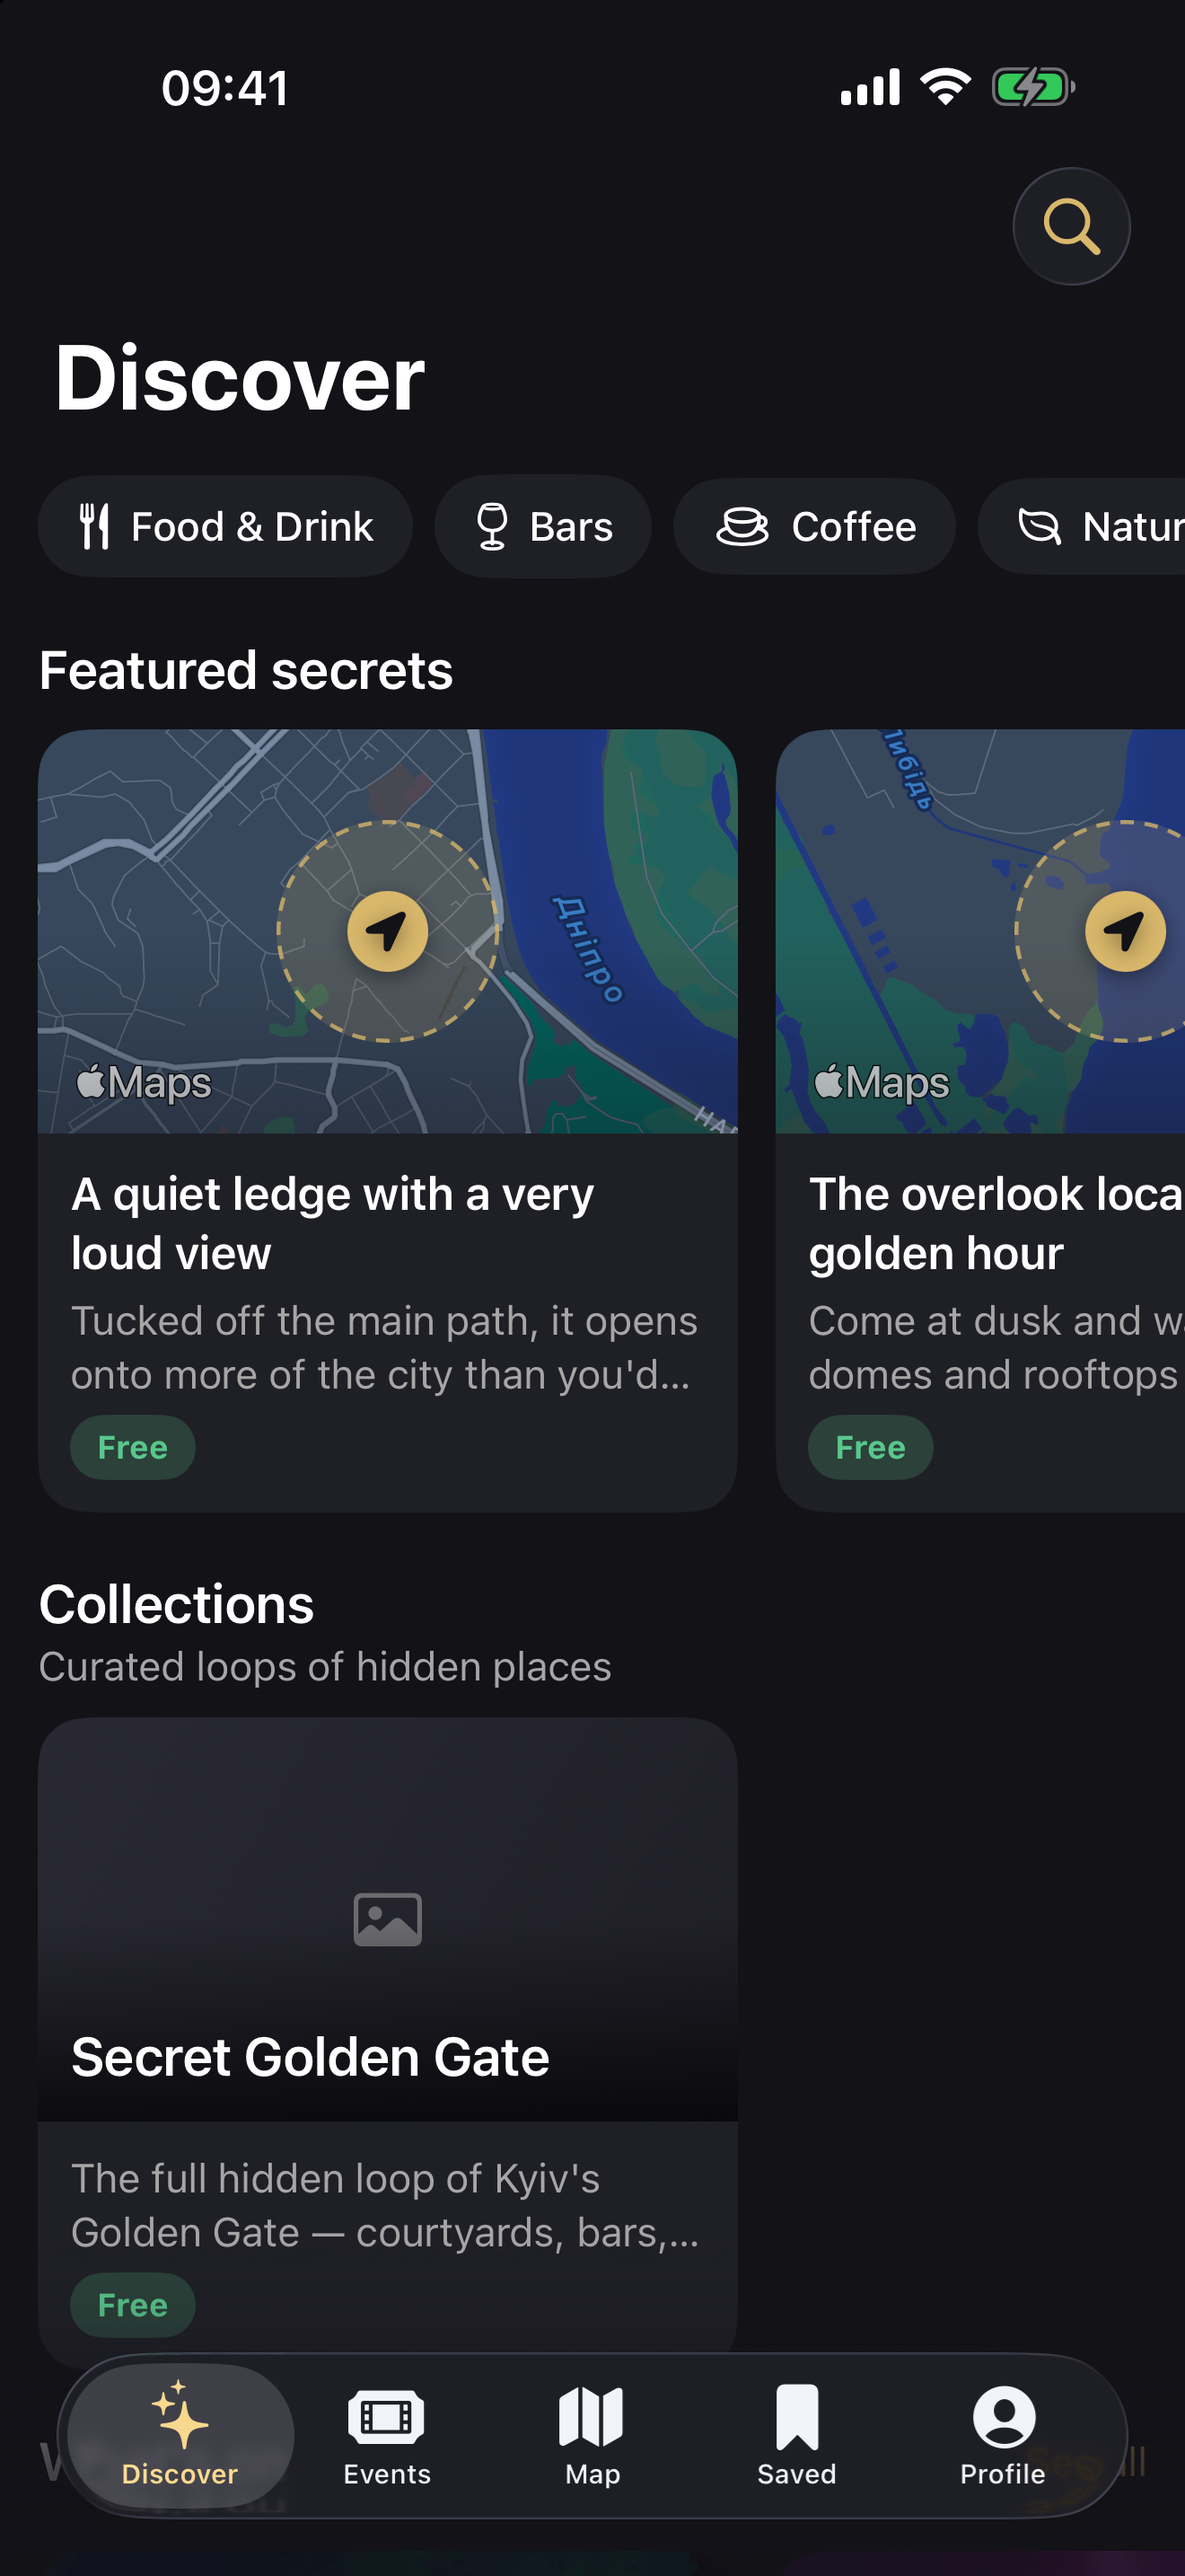
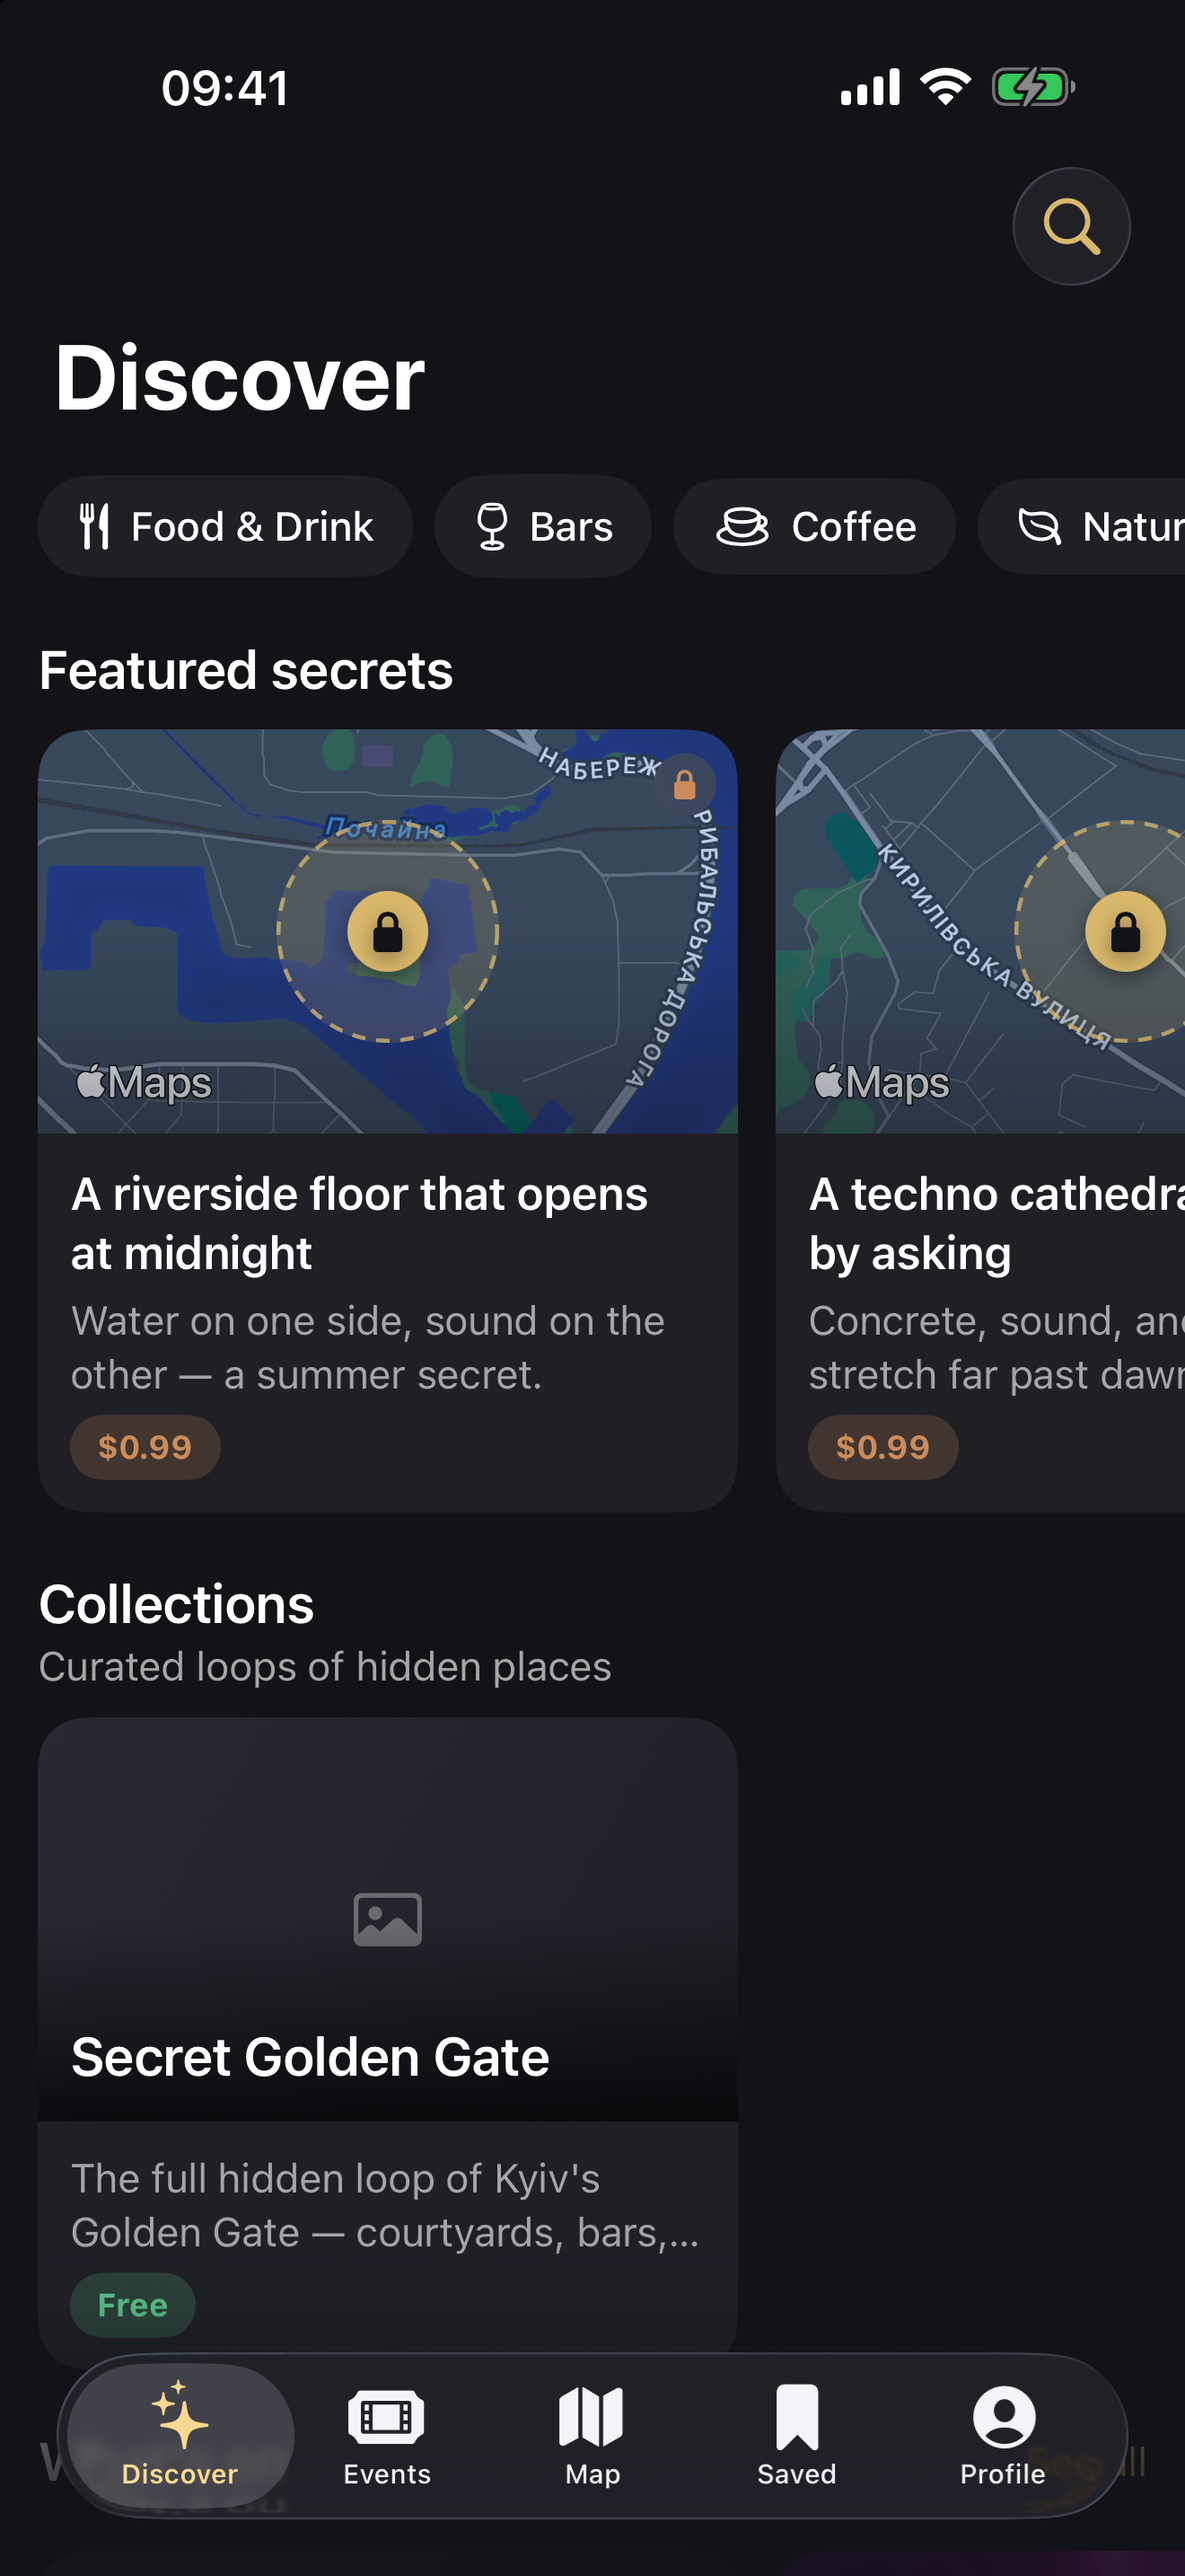
App Store listing: screenshots, EN/UK description; build 2 on the OVH backend
- appstore/compose.py turns raw 6.9" simulator captures into captioned App Store
  screenshots; appstore/metadata.json holds name, subtitle, keywords,
  description and URLs in en-US and uk
- backend/tools/appstore/upload_listing.ts pushes listing + screenshots via the
  App Store Connect API (version set to 1.0.0 to match the binary)
- Route detail shows a map of the area its stops span instead of an empty
  placeholder; dark label on the gold Unlock crawl button for contrast
- CURRENT_PROJECT_VERSION 2 (uploaded to TestFlight)

Changed region(s): [[0.0311, 0.2793, 0.6212, 0.5896], [0.6523, 0.2793, 1.0, 0.5896]]

diff --git a/backend/tools/appstore/upload_listing.ts b/backend/tools/appstore/upload_listing.ts
@@ -1,0 +1,76 @@
+// Pushes the App Store listing (appstore/metadata.json + appstore/<locale>/*.png) to the
+// version that is in "Prepare for Submission". Idempotent: updates what exists, creates
+// what's missing, and replaces the 6.9" screenshot set.
+// Run: deno run --allow-read --allow-env --allow-net upload_listing.ts
+import { api } from "./asc.ts";
+import { crypto as stdCrypto } from "jsr:@std/crypto@1";
+
+const APP = "6822694406";
+const VERSION = "1.0.0"; // must match CFBundleShortVersionString (MARKETING_VERSION)
+const root = new URL("../../../appstore/", import.meta.url);
+const meta = JSON.parse(await Deno.readTextFile(new URL("metadata.json", root)));
+
+// --- App info: categories + per-locale name/subtitle/privacy URL
+const info = (await api("GET", `/v1/apps/${APP}/appInfos`)).data.find((i: any) => i.attributes.state !== "READY_FOR_DISTRIBUTION") ??
+  (await api("GET", `/v1/apps/${APP}/appInfos`)).data[0];
+await api("PATCH", `/v1/appInfos/${info.id}`, { data: { type: "appInfos", id: info.id, relationships: {
+  primaryCategory: { data: { type: "appCategories", id: meta.app.primaryCategory } },
+  secondaryCategory: { data: { type: "appCategories", id: meta.app.secondaryCategory } } } } });
+const infoLocs = (await api("GET", `/v1/appInfos/${info.id}/appInfoLocalizations`)).data;
+for (const [locale, l] of Object.entries<any>(meta.localizations)) {
+  const attrs = { name: l.name, subtitle: l.subtitle, privacyPolicyUrl: meta.app.privacyPolicyUrl };
+  const cur = infoLocs.find((x: any) => x.attributes.locale === locale);
+  if (cur) await api("PATCH", `/v1/appInfoLocalizations/${cur.id}`, { data: { type: "appInfoLocalizations", id: cur.id, attributes: attrs } });
+  else await api("POST", "/v1/appInfoLocalizations", { data: { type: "appInfoLocalizations", attributes: { locale, ...attrs },
+    relationships: { appInfo: { data: { type: "appInfos", id: info.id } } } } });
+  console.log(`app info ${locale}: ok`);
+}
+
+// --- Version: number, copyright, per-locale listing text
+const version = (await api("GET", `/v1/apps/${APP}/appStoreVersions?filter[platform]=IOS&filter[appStoreState]=PREPARE_FOR_SUBMISSION`)).data[0];
+if (!version) throw new Error("no iOS version in Prepare for Submission");
+await api("PATCH", `/v1/appStoreVersions/${version.id}`, { data: { type: "appStoreVersions", id: version.id,
+  attributes: { versionString: VERSION, copyright: meta.app.copyright } } });
+console.log(`version ${version.attributes.versionString} -> ${VERSION}`);
+const verLocs = (await api("GET", `/v1/appStoreVersions/${version.id}/appStoreVersionLocalizations`)).data;
+const locIds: Record<string, string> = {};
+for (const [locale, l] of Object.entries<any>(meta.localizations)) {
+  const attrs = { description: l.description, keywords: l.keywords, promotionalText: l.promotionalText,
+    supportUrl: meta.app.supportUrl, marketingUrl: meta.app.marketingUrl };
+  const cur = verLocs.find((x: any) => x.attributes.locale === locale);
+  locIds[locale] = cur
+    ? (await api("PATCH", `/v1/appStoreVersionLocalizations/${cur.id}`, { data: { type: "appStoreVersionLocalizations", id: cur.id, attributes: attrs } })).data.id
+    : (await api("POST", "/v1/appStoreVersionLocalizations", { data: { type: "appStoreVersionLocalizations", attributes: { locale, ...attrs },
+        relationships: { appStoreVersion: { data: { type: "appStoreVersions", id: version.id } } } } })).data.id;
+  console.log(`listing ${locale}: ok`);
+}
+
+// --- Screenshots (6.9" iPhone set). Locales without their own folder fall back to the primary set in App Store Connect.
+const md5 = async (b: Uint8Array) => Array.from(new Uint8Array(await stdCrypto.subtle.digest("MD5", b))).map((x) => x.toString(16).padStart(2, "0")).join("");
+for (const locale of Object.keys(meta.localizations)) {
+  const dir = new URL(`${locale}/`, root);
+  let files: string[];
+  try { files = [...Deno.readDirSync(dir)].map((e) => e.name).filter((n) => n.endsWith(".png")).sort(); } catch { continue; }
+  const sets = (await api("GET", `/v1/appStoreVersionLocalizations/${locIds[locale]}/appScreenshotSets`)).data;
+  let set = sets.find((s: any) => s.attributes.screenshotDisplayType === "APP_IPHONE_67");
+  if (set) {
+    for (const old of (await api("GET", `/v1/appScreenshotSets/${set.id}/appScreenshots`)).data) await api("DELETE", `/v1/appScreenshots/${old.id}`);
+  } else {
+    set = (await api("POST", "/v1/appScreenshotSets", { data: { type: "appScreenshotSets", attributes: { screenshotDisplayType: "APP_IPHONE_67" },
+      relationships: { appStoreVersionLocalization: { data: { type: "appStoreVersionLocalizations", id: locIds[locale] } } } } })).data;
+  }
+  for (const name of files) {
+    const bytes = await Deno.readFile(new URL(name, dir));
+    const res = await api("POST", "/v1/appScreenshots", { data: { type: "appScreenshots", attributes: { fileName: name, fileSize: bytes.byteLength },
+      relationships: { appScreenshotSet: { data: { type: "appScreenshotSets", id: set.id } } } } });
+    for (const op of res.data.attributes.uploadOperations) {
+      const headers: Record<string, string> = {};
+      for (const h of op.requestHeaders ?? []) headers[h.name] = h.value;
+      const r = await fetch(op.url, { method: op.method, headers, body: bytes.slice(op.offset, op.offset + op.length) });
+      if (!r.ok) throw new Error(`upload ${name}: ${r.status}`);
+    }
+    await api("PATCH", `/v1/appScreenshots/${res.data.id}`, { data: { type: "appScreenshots", id: res.data.id,
+      attributes: { uploaded: true, sourceFileChecksum: await md5(bytes) } } });
+    console.log(`screenshot ${locale}/${name}: uploaded`);
+  }
+}

diff --git a/ios/SecretPlaces/Features/Routes/RouteDetailView.swift b/ios/SecretPlaces/Features/Routes/RouteDetailView.swift
@@ -57,10 +57,41 @@ struct RouteDetailView: View {
         _vm = StateObject(wrappedValue: RouteDetailViewModel(slug: slug))
     }
 
+    /// Cover photo if the route has one; otherwise a map of the area its stops span
+    /// (approximate coordinates only, so nothing is revealed before purchase).
+    @ViewBuilder private var hero: some View {
+        if let cover = vm.state.value?.coverUrl ?? summary?.coverUrl, !cover.isEmpty {
+            RemoteImage(url: cover, height: 240)
+        } else {
+            let route = vm.state.value
+            let coords = (route?.stops ?? []).compactMap { s -> CLLocationCoordinate2D? in
+                guard let la = s.approxLat, let ln = s.approxLng else { return nil }
+                return CLLocationCoordinate2D(latitude: la, longitude: ln)
+            }
+            AreaMapImage(coordinate: Self.center(of: coords), height: 240,
+                         locked: !(route.map { $0.owned || $0.isFree } ?? true),
+                         spanMeters: Self.span(of: coords))
+        }
+    }
+
+    private static func center(of c: [CLLocationCoordinate2D]) -> CLLocationCoordinate2D? {
+        guard !c.isEmpty else { return nil }
+        return CLLocationCoordinate2D(latitude: c.map(\.latitude).reduce(0, +) / Double(c.count),
+                                      longitude: c.map(\.longitude).reduce(0, +) / Double(c.count))
+    }
+
+    private static func span(of c: [CLLocationCoordinate2D]) -> CLLocationDistance {
+        guard let minLat = c.map(\.latitude).min(), let maxLat = c.map(\.latitude).max(),
+              let minLng = c.map(\.longitude).min(), let maxLng = c.map(\.longitude).max() else { return 1600 }
+        let dLat = (maxLat - minLat) * 111_000
+        let dLng = (maxLng - minLng) * 111_000 * cos(minLat * .pi / 180)
+        return max(1600, max(dLat, dLng) * 1.6)
+    }
+
     var body: some View {
         ScrollView {
             VStack(alignment: .leading, spacing: 16) {
-                RemoteImage(url: vm.state.value?.coverUrl ?? summary?.coverUrl, height: 240)
+                hero
                     .clipShape(RoundedRectangle(cornerRadius: Theme.corner))
                     .padding(.horizontal, 14)
 
@@ -165,7 +196,7 @@ struct RouteDetailView: View {
                     }
                     .frame(maxWidth: .infinity).padding(.vertical, 14)
                 }
-                .buttonStyle(.borderedProminent).tint(Theme.accent)
+                .buttonStyle(.borderedProminent).tint(Theme.accent).foregroundStyle(.black)
                 .disabled(purchases.purchasingProductId != nil)
             }
         }

diff --git a/ios/SecretPlaces/Core/AreaMapImage.swift b/ios/SecretPlaces/Core/AreaMapImage.swift
@@ -10,6 +10,8 @@ struct AreaMapImage: View {
     let coordinate: CLLocationCoordinate2D?
     var height: CGFloat = 150
     var locked: Bool = false
+    /// Edge length of the shown region; widen it to fit several stops.
+    var spanMeters: CLLocationDistance = 1600
 
     @State private var snapshot: UIImage?
     @Environment(\.displayScale) private var displayScale
@@ -60,11 +62,11 @@ struct AreaMapImage: View {
     private func load(width: CGFloat) async {
         guard let coordinate, width > 1 else { return }
         let size = CGSize(width: width, height: height)
-        let key = MapSnapshotCache.key(coordinate, size, displayScale)
+        let key = MapSnapshotCache.key(coordinate, size, displayScale, spanMeters)
         if let cached = MapSnapshotCache.shared.object(forKey: key) { snapshot = cached; return }
 
         let options = MKMapSnapshotter.Options()
-        options.region = MKCoordinateRegion(center: coordinate, latitudinalMeters: 1600, longitudinalMeters: 1600)
+        options.region = MKCoordinateRegion(center: coordinate, latitudinalMeters: spanMeters, longitudinalMeters: spanMeters)
         options.size = size
         options.scale = displayScale
         options.traitCollection = UITraitCollection(userInterfaceStyle: .dark)
@@ -87,8 +89,8 @@ enum MapSnapshotCache {
     nonisolated(unsafe) static let shared: NSCache<NSString, UIImage> = {
         let c = NSCache<NSString, UIImage>(); c.countLimit = 120; return c
     }()
-    static func key(_ c: CLLocationCoordinate2D, _ s: CGSize, _ scale: CGFloat) -> NSString {
-        String(format: "%.5f,%.5f,%.0fx%.0f@%.0f", c.latitude, c.longitude, s.width, s.height, scale) as NSString
+    static func key(_ c: CLLocationCoordinate2D, _ s: CGSize, _ scale: CGFloat, _ span: CLLocationDistance) -> NSString {
+        String(format: "%.5f,%.5f,%.0fx%.0f@%.0f/%.0f", c.latitude, c.longitude, s.width, s.height, scale, span) as NSString
     }
 }
 

diff --git a/appstore/compose.py b/appstore/compose.py
@@ -1,0 +1,101 @@
+#!/usr/bin/env python3
+"""Builds App Store screenshots (6.9", 1320x2868) from raw simulator captures.
+
+Raw captures: appstore/raw/NN-name.png, taken on iPhone 17 Pro Max with the status bar
+overridden to 9:41 (`xcrun simctl status_bar ... override --time 9:41`).
+Output: appstore/<locale>/NN-name.png
+Run: python3 appstore/compose.py
+"""
+from pathlib import Path
+from PIL import Image, ImageDraw, ImageFilter, ImageFont
+
+HERE = Path(__file__).parent
+W, H = 1320, 2868
+BG_TOP, BG_BOTTOM = (30, 30, 40), (13, 13, 17)
+GOLD, TEXT, MUTED = (217, 184, 107), (244, 242, 238), (166, 166, 173)
+SF = "/System/Library/Fonts/SFNS.ttf"
+
+CAPTIONS = {
+    "en-US": {
+        "01-discover": ("The city's best-kept secrets", "Hidden bars, quiet viewpoints and underground nights, curated by locals."),
+        "02-locked":   ("Secrets stay secret", "See the vibe and the rough area. Unlock the exact spot when you're ready."),
+        "03-map":      ("The hidden city, mapped", "Free spots in green. Locked ones only show an approximate area."),
+        "04-unlocked": ("Get the door word", "The exact spot, directions and the password to get in."),
+        "05-route":    ("Follow a night route", "Self-guided crawls: every unmarked door, in order."),
+    },
+}
+
+
+def font(size: int, weight: bytes) -> ImageFont.FreeTypeFont:
+    f = ImageFont.truetype(SF, size)
+    f.set_variation_by_name(weight)
+    return f
+
+
+def wrap(draw: ImageDraw.ImageDraw, text: str, f: ImageFont.FreeTypeFont, width: int) -> list[str]:
+    lines, cur = [], ""
+    for word in text.split():
+        trial = f"{cur} {word}".strip()
+        if draw.textlength(trial, font=f) <= width:
+            cur = trial
+        else:
+            lines.append(cur)
+            cur = word
+    return lines + [cur]
+
+
+def background() -> Image.Image:
+    img = Image.new("RGB", (W, H))
+    d = ImageDraw.Draw(img)
+    for y in range(H):
+        t = y / H
+        d.line([(0, y), (W, y)], fill=tuple(int(BG_TOP[i] * (1 - t) + BG_BOTTOM[i] * t) for i in range(3)))
+    # soft gold glow behind the headline, echoing the app icon
+    glow = Image.new("L", (W, H), 0)
+    ImageDraw.Draw(glow).ellipse([W * 0.1, -H * 0.08, W * 0.9, H * 0.22], fill=90)
+    glow = glow.filter(ImageFilter.GaussianBlur(160))
+    return Image.composite(Image.new("RGB", (W, H), GOLD), img, glow.point(lambda v: v * 0.35))
+
+
+def compose(raw: Path, title: str, subtitle: str) -> Image.Image:
+    img = background()
+    d = ImageDraw.Draw(img)
+    margin = 96
+    f_title, f_sub = font(104, b"Bold"), font(50, b"Regular")
+    y = 190
+    for line in wrap(d, title, f_title, W - 2 * margin):
+        d.text((W / 2, y), line, font=f_title, fill=TEXT, anchor="mt")
+        y += 120
+    y += 22
+    for line in wrap(d, subtitle, f_sub, W - 2 * margin - 40):
+        d.text((W / 2, y), line, font=f_sub, fill=MUTED, anchor="mt")
+        y += 66
+
+    # device screen: scaled, rounded, with a thin bezel; bleeds off the bottom edge
+    shot = Image.open(raw).convert("RGB")
+    sw = int(W * 0.80)
+    shot = shot.resize((sw, int(shot.height * sw / shot.width)), Image.LANCZOS)
+    top = max(y + 80, 700)
+    radius, bezel = 96, 14
+    frame = Image.new("RGBA", (sw + 2 * bezel, shot.height + 2 * bezel), (0, 0, 0, 0))
+    ImageDraw.Draw(frame).rounded_rectangle([0, 0, frame.width - 1, frame.height - 1], radius + bezel, fill=(52, 52, 62, 255))
+    mask = Image.new("L", shot.size, 0)
+    ImageDraw.Draw(mask).rounded_rectangle([0, 0, shot.width - 1, shot.height - 1], radius, fill=255)
+    frame.paste(shot, (bezel, bezel), mask)
+
+    shadow = Image.new("RGBA", (W, H), (0, 0, 0, 0))
+    x0 = (W - frame.width) // 2
+    ImageDraw.Draw(shadow).rounded_rectangle([x0, top + 30, x0 + frame.width, top + 30 + frame.height], radius, fill=(0, 0, 0, 150))
+    shadow = shadow.filter(ImageFilter.GaussianBlur(40))
+    img = Image.alpha_composite(img.convert("RGBA"), shadow)
+    img.alpha_composite(frame, (x0, top))
+    return img.convert("RGB")  # App Store rejects alpha channels
+
+
+if __name__ == "__main__":
+    for locale, caps in CAPTIONS.items():
+        out = HERE / locale
+        out.mkdir(exist_ok=True)
+        for name, (title, subtitle) in caps.items():
+            compose(HERE / "raw" / f"{name}.png", title, subtitle).save(out / f"{name}.png", optimize=True)
+            print(f"{locale}/{name}.png")
